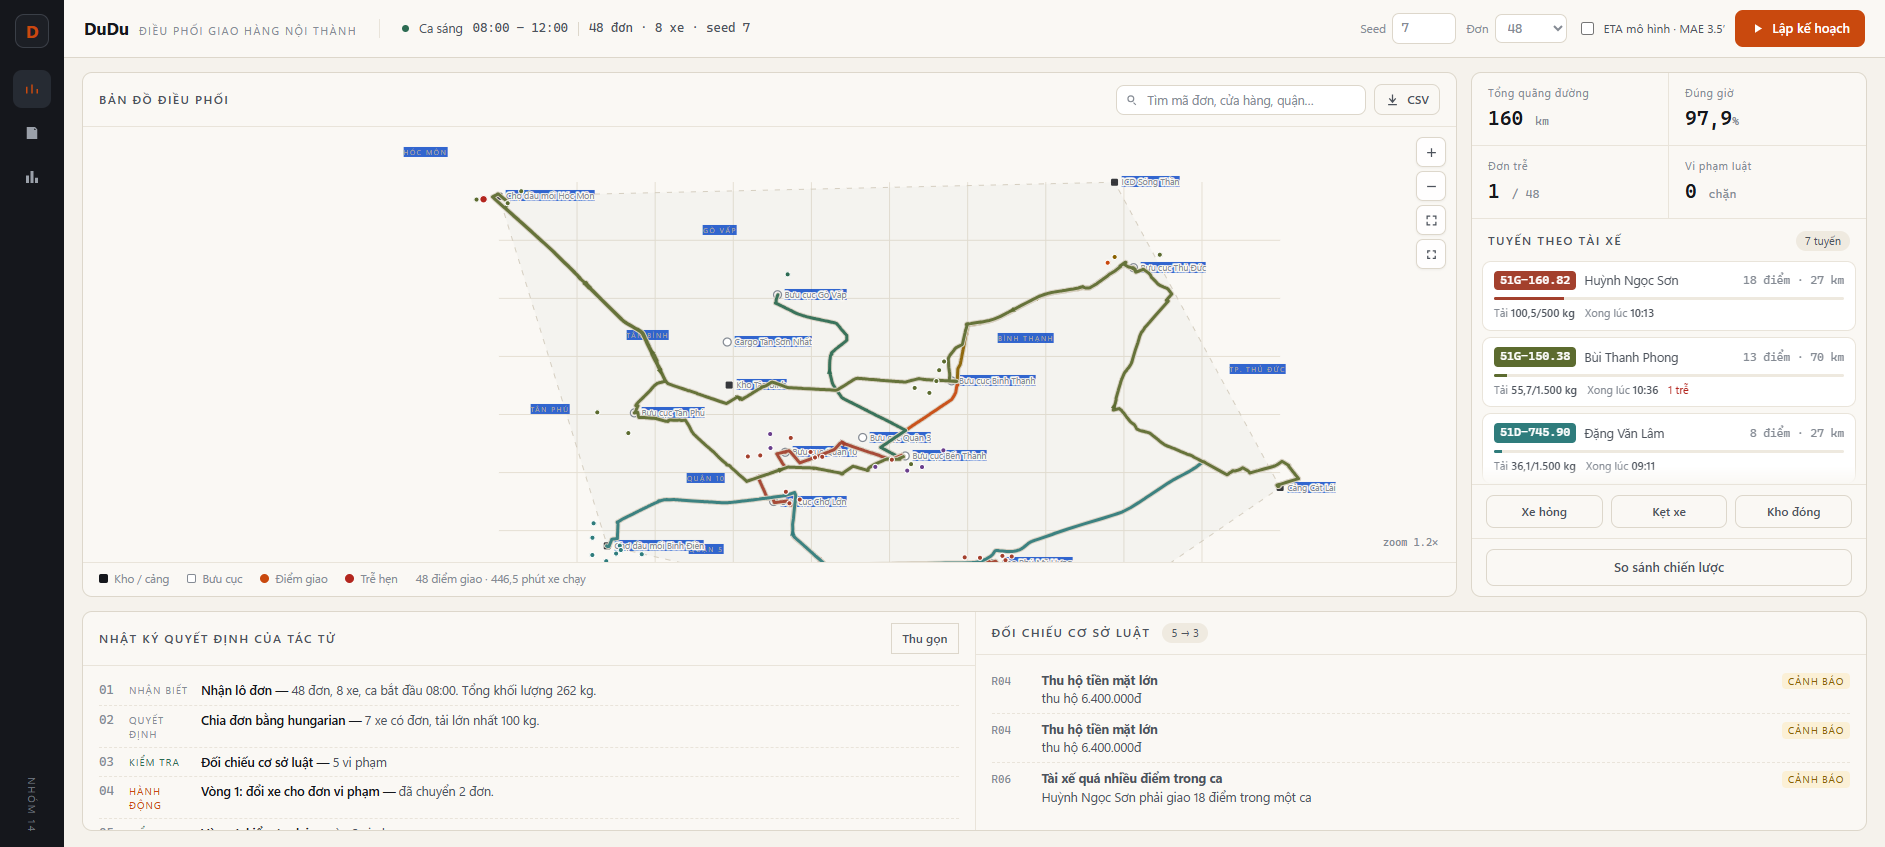
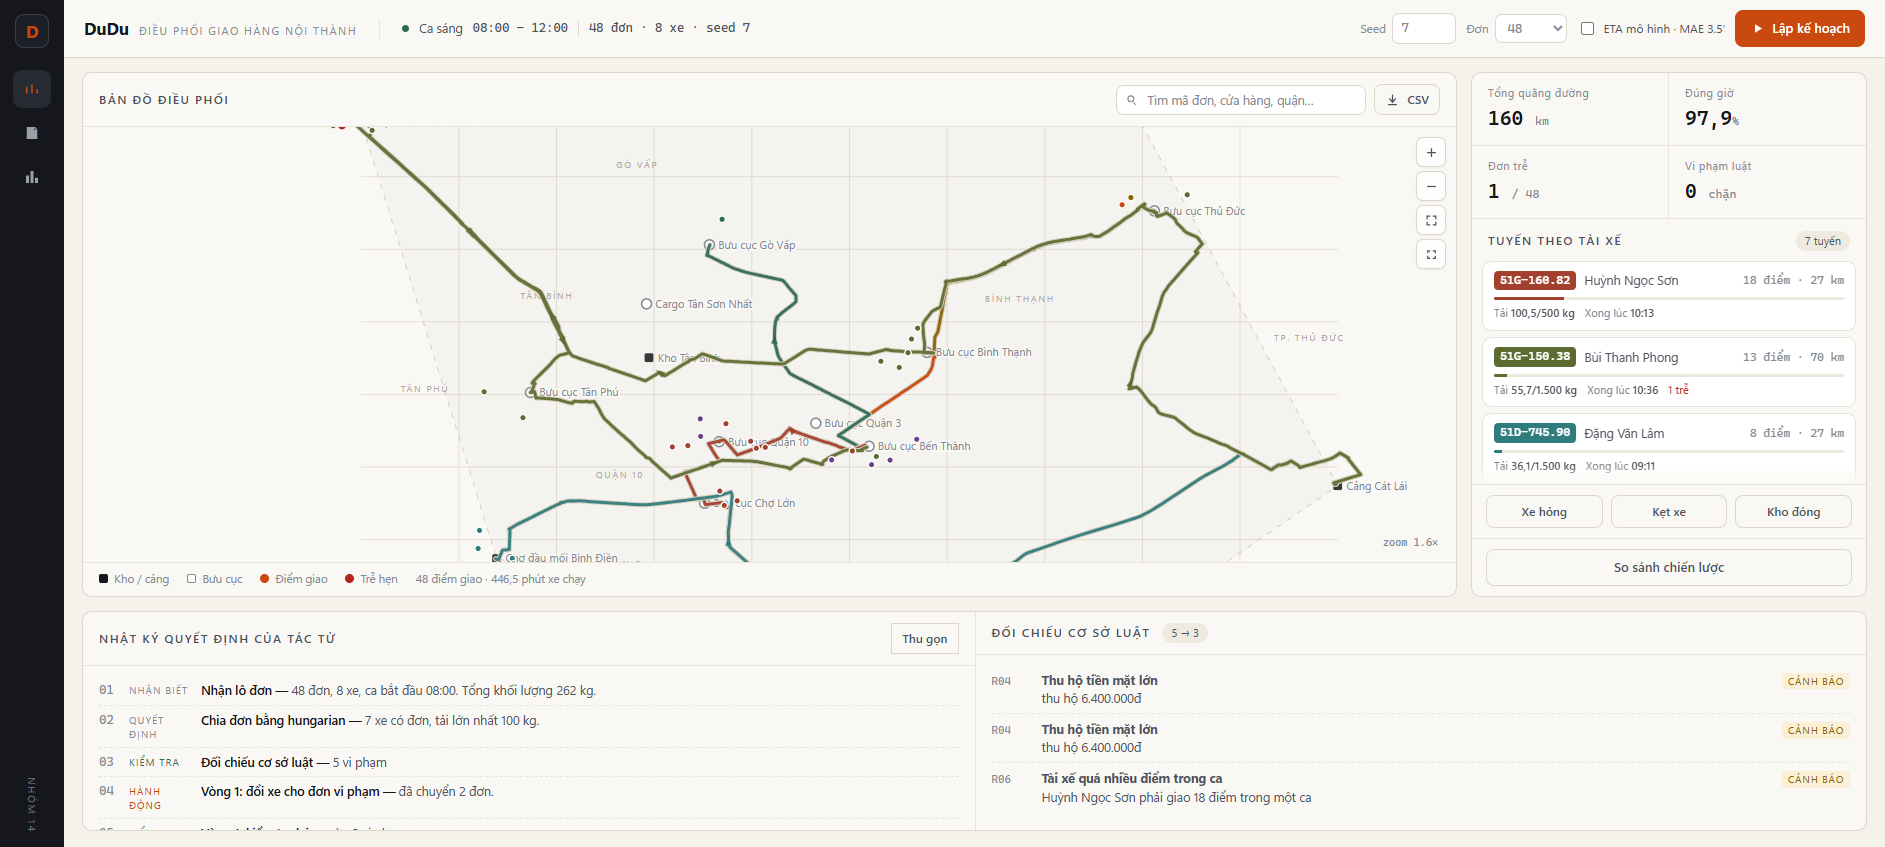
web: chặn bôi đen chữ khi kéo bản đồ, cập nhật ảnh zoom

diff --git a/web/assets/app.css b/web/assets/app.css
@@ -529,7 +529,8 @@ table.rules th:last-child { white-space: nowrap; width: 92px; }
 
 /* ============ v3: zoom/pan bản đồ, toàn màn hình, thu gọn nhật ký ============ */
 
-.map-wrap { cursor: grab; touch-action: none; }
+.map-wrap { cursor: grab; touch-action: none; user-select: none; -webkit-user-select: none; }
+.map-wrap svg { user-select: none; }
 .map-wrap.is-panning { cursor: grabbing; }
 
 .map-controls {
@@ -575,4 +576,5 @@ table.rules th:last-child { white-space: nowrap; width: 92px; }
 .map-panel:fullscreen .map-wrap { flex: 1; }
 .map-panel:fullscreen .map-controls { top: 16px; right: 16px; }
 @media (max-width: 900px) { .map-controls { top: 8px; right: 8px; } }
+
 
